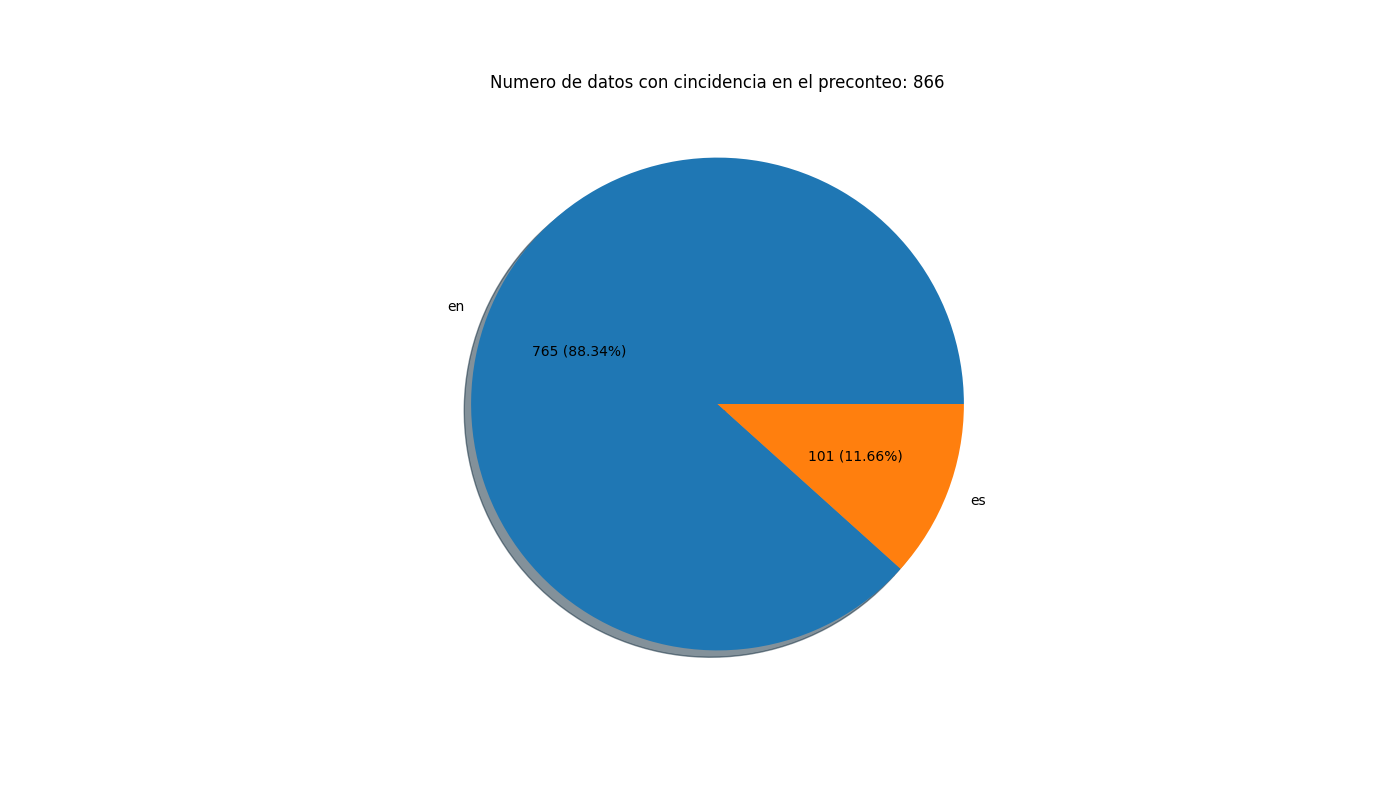
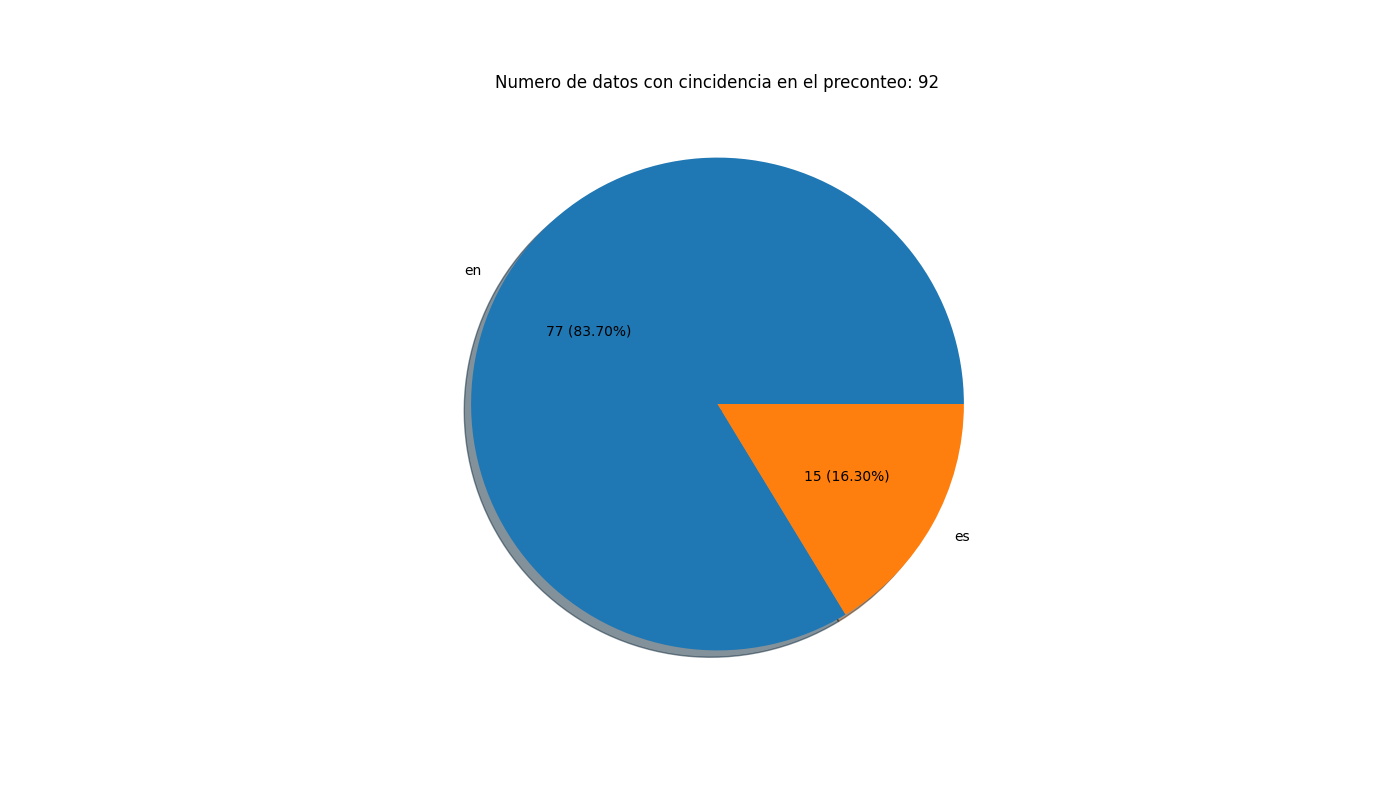
era un bug ridiculo

Changed region(s): [[0.5221, 0.5312, 0.645, 0.7812], [0.3379, 0.0938, 0.6757, 0.125], [0.3993, 0.4062, 0.4607, 0.4688]]

diff --git a/captura_de_datos/filter_data.py b/captura_de_datos/filter_data.py
@@ -9,7 +9,7 @@ import unidecode
 
 numero_muestras = 2500
 
-output_path1 = "./twitter_data/datos_en_bruto/catched_tweets_sample.csv"
+output_path1 = "./twitter_data/datos_en_bruto/catched_tweets_full_data.csv"
 output_path_m1_en = "./twitter_data/datos_para_tageo_mourning/en_prefiltered_mourning.csv"
 output_path_m1_es = "./twitter_data/datos_para_tageo_mourning/es_prefiltered_mourning.csv"
 output_path_m2_en = "./twitter_data/datos_para_tageo_mourning/en_prefiltered_not_mourning.csv"
@@ -62,7 +62,7 @@ tags_español = [
     'descansa en paz',
     'gloria de dios',
     'santa gloria',
-    'luto',
+    ' luto ',
 ]
 
 tags_español = [stemmer_es.stem(unidecode.unidecode(unicode(w, "utf-8"))).lower() for w in (tags_español)]

diff --git a/captura_de_datos/data_analysis.py b/captura_de_datos/data_analysis.py
@@ -8,7 +8,7 @@ from gensim.utils import any2unicode as unicode
 # pip3 install -r requirements.txt <---- por si da flojera instalarlos a mano.
 
 
-usar_muestra = 1
+usar_muestra = 0
 
 stemmer_en = SnowballStemmer('english')
 stemmer_es = SnowballStemmer('spanish')
@@ -49,7 +49,7 @@ tags_español = [
     'descansa en paz',
     'gloria de dios',
     'santa gloria',
-    'luto',
+    ' luto ',
 ]
 
 tags_español = [stemmer_es.stem(unidecode.unidecode(unicode(w, "utf-8"))).lower() for w in (tags_español)]
